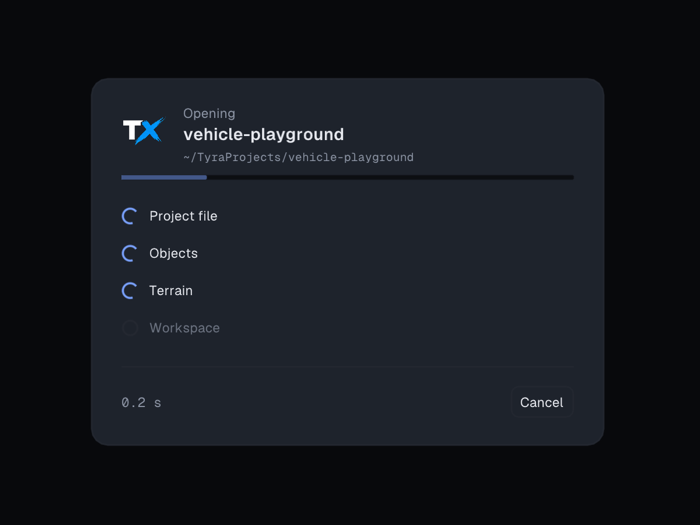
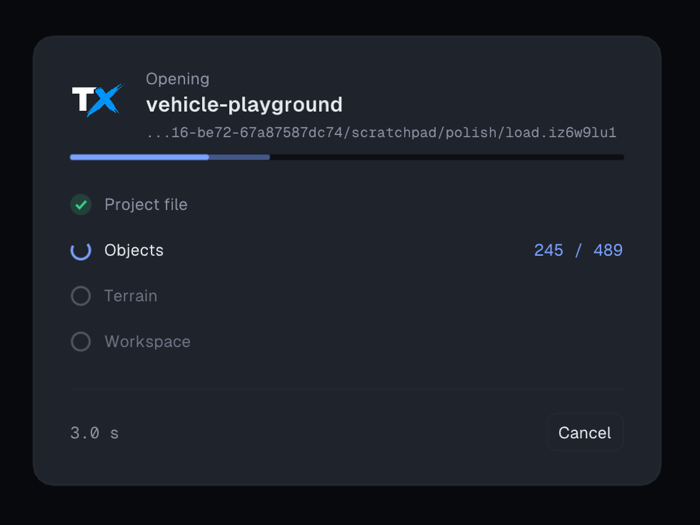
Opening Project: steps follow the reader, Objects counts files
Divergence: during stage 0 (the worker reading the files) the card spun
Project file, Objects and Terrain all at once; the design shows done /
current / pending steps and a live count.

Fix: project::LoadProgress (atomics: phase 0 manifest, 1 object files with
objectsDone/objectsTotal, 2 heightmaps, 3 finished) and a
load(out, dir, cancel, progress) overload; the reader reports through a
thread_local like the cancel flag. The card derives each step's state from
it, shows "done / total" while object files are read, and moves the bar file
by file. Pending steps' rings are visible now (textDim 45%, was the border
colour - invisible on Graphite).

Verified: a copy of vehicle-playground with one object file replaced by a
FIFO holds the reader mid-load: shot shows Project file ticked, Objects
"245 / 489" spinning, Terrain/Workspace pending; releasing the FIFO opens the
project (script exit 0). docs/img/opening-project.png retaken.

diff --git a/src/app.cpp b/src/app.cpp
@@ -6714,8 +6714,12 @@ void App::projectLoadTick() {
             projectLoadReady_ = false;
             projectLoadResultTaken_ = false;
             projectLoadResult_ = std::make_unique<Project>();
+            projectLoadProgress_.phase = 0;
+            projectLoadProgress_.objectsDone = 0;
+            projectLoadProgress_.objectsTotal = 0;
             projectLoadThread_ = std::thread([this, dir = projectLoadDir_] {
-                projectLoadResultErr_ = project::load(*projectLoadResult_, dir, &projectLoadAbort_);
+                projectLoadResultErr_ =
+                    project::load(*projectLoadResult_, dir, &projectLoadAbort_, &projectLoadProgress_);
                 projectLoadReady_ = true;
             });
             return;
@@ -6901,9 +6905,17 @@ void App::drawProjectLoadingScreen() {
             }
         }
     } else {
-        // Progress: indeterminate inside a stage - the loader has no honest
-        // fraction - but the bar stands at the stage boundary it has passed.
-        const float frac = projectLoadStage_ == 0 ? 0.0f : 0.6f;
+        // Progress: the bar stands at the boundary the loader has passed -
+        // through the object files it moves file by file (LoadProgress) -
+        // and the sweep says "still working" inside a step.
+        float frac = 0.6f;
+        if (projectLoadStage_ == 0) {
+            const int ph = projectLoadProgress_.phase.load();
+            const int tot = projectLoadProgress_.objectsTotal.load();
+            frac = ph <= 0 ? 0.0f
+                   : ph == 1 ? 0.05f + 0.4f * (tot > 0 ? ImClamp((float)projectLoadProgress_.objectsDone.load() / (float)tot, 0.0f, 1.0f) : 0.0f)
+                             : 0.5f;
+        }
         {
             const float w = ImGui::GetContentRegionAvail().x;
             const ImVec2 p = ImGui::GetCursorScreenPos();
@@ -6927,10 +6939,20 @@ void App::drawProjectLoadingScreen() {
             std::string count;
         };
         const bool s1 = projectLoadStage_ >= 1;
+        // Stage 0's reader reports its phase (project::LoadProgress): the
+        // manifest, then the object files (done / total), then heightmaps.
+        const int ph0 = s1 ? 3 : projectLoadProgress_.phase.load();
+        auto stateOf = [&](int phase) { return ph0 > phase ? 2 : ph0 == phase ? 1 : 0; };
+        std::string objCount;
+        if (s1)
+            objCount = std::to_string(projectLoadObjects_);
+        else if (ph0 == 1 && projectLoadProgress_.objectsTotal.load() > 0)
+            objCount = std::to_string(projectLoadProgress_.objectsDone.load()) + " / " +
+                       std::to_string(projectLoadProgress_.objectsTotal.load());
         const Phase phases[] = {
-            {"Project file", s1 ? 2 : 1, ""},
-            {"Objects", s1 ? 2 : 1, s1 ? std::to_string(projectLoadObjects_) : std::string()},
-            {"Terrain", s1 ? 2 : 1,
+            {"Project file", stateOf(0), ""},
+            {"Objects", stateOf(1), objCount},
+            {"Terrain", stateOf(2),
              s1 ? (projectLoadTerrains_ == 0 ? std::string("none")
                    : std::to_string(projectLoadTerrains_) + (projectLoadTerrains_ == 1 ? " heightmap" : " heightmaps"))
                 : std::string()},
@@ -6947,7 +6969,7 @@ void App::drawProjectLoadingScreen() {
             } else if (ph.state == 1) {
                 ui::Spinner(dl, c, fs * 0.42f);
             } else {
-                dl->AddCircle(c, fs * 0.45f, ImGui::GetColorU32(sem.border), 20, 1.5f);
+                dl->AddCircle(c, fs * 0.45f, ImGui::GetColorU32(ImVec4(sem.textDim.x, sem.textDim.y, sem.textDim.z, 0.45f)), 20, 1.5f);
             }
             ImVec4 cv = ph.state == 1 ? sem.text : sem.textDim;
             if (ph.state == 0) cv.w *= 0.7f;

diff --git a/src/project.cpp b/src/project.cpp
@@ -6278,6 +6278,11 @@ bool parseObject(const std::string& body, SceneObject& out) {
 // cannot see each other's.
 static thread_local const std::atomic<bool>* tlLoadCancel = nullptr;
 static bool loadCancelled() { return tlLoadCancel && tlLoadCancel->load(); }
+// The progress report of the load() running on THIS thread (null = none).
+static thread_local LoadProgress* tlLoadProgress = nullptr;
+static void loadPhase(int phase) {
+    if (tlLoadProgress) tlLoadProgress->phase.store(phase);
+}
 
 static void readSceneObjects(const Project& p, const json::Value& objs,
                              std::vector<SceneObject>& out) {
@@ -6286,6 +6291,7 @@ static void readSceneObjects(const Project& p, const json::Value& objs,
         if (loadCancelled()) return;
         const std::string id = jid.stringOr("");
         if (id.empty()) continue;
+        if (tlLoadProgress) tlLoadProgress->objectsDone.fetch_add(1);
         std::ifstream f(objectPath(p, id), std::ios::binary);
         if (!f) continue;
         std::stringstream ss;
@@ -7913,12 +7919,25 @@ bool applySectionJson(Project& p, Section s, const std::string& body) {
 }
 
 std::string load(Project& out, const std::string& projectDir, const std::atomic<bool>* cancel) {
+    return load(out, projectDir, cancel, nullptr);
+}
+
+std::string load(Project& out, const std::string& projectDir, const std::atomic<bool>* cancel,
+                 LoadProgress* progress) {
     struct Scope {
-        explicit Scope(const std::atomic<bool>* c) { tlLoadCancel = c; }
-        ~Scope() { tlLoadCancel = nullptr; }
-    } scope(cancel);
+        Scope(const std::atomic<bool>* c, LoadProgress* pr) {
+            tlLoadCancel = c;
+            tlLoadProgress = pr;
+        }
+        ~Scope() {
+            tlLoadCancel = nullptr;
+            tlLoadProgress = nullptr;
+        }
+    } scope(cancel, progress);
+    loadPhase(0);
     std::string err = load(out, projectDir);
     if (err.empty() && loadCancelled()) err = kLoadCancelled;
+    loadPhase(3);
     return err;
 }
 
@@ -8009,6 +8028,15 @@ std::string load(Project& out, const std::string& projectDir) {
     if (const auto* scenes = root.find("scenes");
         scenes && scenes->type == json::Value::Type::Array && !scenes->arr.empty()) {
         out.scenes.clear();
+        if (tlLoadProgress) {
+            int total = 0;
+            for (const auto& js : scenes->arr)
+                if (const auto* objs = js.find("objects"); objs && objs->type == json::Value::Type::Array)
+                    total += (int)objs->arr.size();
+            tlLoadProgress->objectsTotal.store(total);
+            tlLoadProgress->objectsDone.store(0);
+        }
+        loadPhase(1);
         for (const auto& js : scenes->arr) {
             SceneData sc;
             if (const auto* v = js.find("name")) sc.name = v->stringOr("scene");
@@ -8116,6 +8144,7 @@ std::string load(Project& out, const std::string& projectDir) {
     ensureSaveMenu(out);
 
     if (loadCancelled()) return kLoadCancelled;
+    loadPhase(2);
     loadHeights(out);
     ensureHeightmap(out);
     loadSplat(out);  // reads <scene>.splat sidecars + reconciles with the layers

diff --git a/src/project.hpp b/src/project.hpp
@@ -4919,6 +4919,17 @@ std::string load(Project& out, const std::string& projectDir);
 // Cancel can be pressed mid-load (App::projectLoadTick).
 inline constexpr const char* kLoadCancelled = "Opening cancelled";
 std::string load(Project& out, const std::string& projectDir, const std::atomic<bool>* cancel);
+// Where a load() on another thread has got to, for the Opening Project
+// screen's phase list. Written by the loading thread, read by the UI thread
+// (atomics only). phase: 0 reading the manifest, 1 object files
+// (objectsDone of objectsTotal), 2 terrain heightmaps, 3 finished.
+struct LoadProgress {
+    std::atomic<int> phase{0};
+    std::atomic<int> objectsDone{0};
+    std::atomic<int> objectsTotal{0};
+};
+std::string load(Project& out, const std::string& projectDir, const std::atomic<bool>* cancel,
+                 LoadProgress* progress);
 
 // Writes the single <name>.tyra project file. Editor-side state (selection,
 // gizmo, view mode) and the window layout are taken from the Project fields.

diff --git a/src/app.hpp b/src/app.hpp
@@ -1709,6 +1709,7 @@ private:
     std::thread projectLoadThread_;
     std::atomic<bool> projectLoadAbort_{false};
     std::atomic<bool> projectLoadReady_{false};
+    project::LoadProgress projectLoadProgress_;  // the phase list's live state (written by the thread)
     bool projectLoadResultTaken_ = true;
     std::unique_ptr<Project> projectLoadResult_;  // written by the thread
     std::string projectLoadResultErr_;            // written by the thread

diff --git a/docs/start-page.md b/docs/start-page.md
@@ -90,8 +90,11 @@ command line) shows a card with the project's name - the one in its `.tyra`
 file, not just the folder's - where it is and how many scenes it has, and the
 steps of loading: **Project file**, **Objects** (with the count), **Terrain**
 (heightmaps) and **Workspace** (the viewport's meshes and textures). Finished
-steps get a tick, the running one a spinner; the bar does not pretend to know
-a percentage inside a step. The time so far is in the corner.
+steps get a tick, the running one a spinner, the ones still to come an empty
+ring - the steps follow the reader as it goes, and while it reads the object
+files *Objects* counts them (`245 / 489`) and the bar moves with it. Inside the
+other steps the bar does not pretend to know a percentage. The time so far is
+in the corner.
 
 ![The Opening card: project name and folder, the four loading steps and
 Cancel.](img/opening-project.png)
